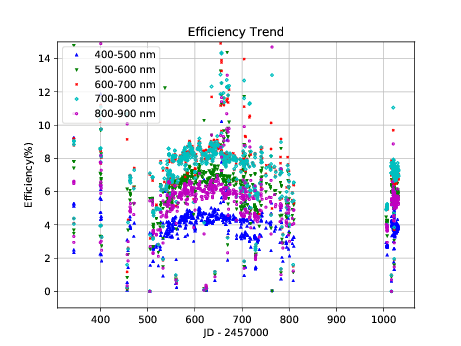
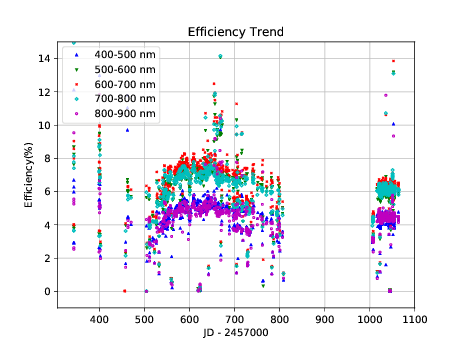
updates to plot/text

diff --git a/source/conf.py b/source/conf.py
@@ -61,9 +61,9 @@ author = u'Nick Konidaris/Don Neill'
 # built documents.
 #
 # The short X.Y version.
-version = '03 November 2017'
+version = '09 November 2017'
 # The full version, including alpha/beta/rc tags.
-release = '03 November 2017'
+release = '09 November 2017'
 
 # The language for content autogenerated by Sphinx. Refer to documentation
 # for a list of supported languages.

diff --git a/source/Efficiency.rst b/source/Efficiency.rst
@@ -323,9 +323,8 @@ efficiency measurement due to atmospheric extinction (clouds), but can also
 increase the efficiency if there is a high background (moon).  The best way
 to mitigate these effects is to look at the trend over time.  Below is a
 figure that shows the efficiency in wavlength bins over the course of the
-last 700 days.  This was calculated using the functional form for the
-wavelengths and will need to be re-calculated with the average fiducial
-wavelength scale.
+last 700 days.  This was calculated after re-processing all the archival
+data with the average fiducial wavelength scale.
 
 .. _fig-eff_trend:
 
@@ -336,8 +335,8 @@ wavelength scale.
 
 Several features of this plot stand out.  There are short periods of higher
 efficiency that go against the general trend.  These are most likely from
-observations of standard stars that have a high background perhaps due to
-moonlight.  This would be a good thing to track down.
+observations of standard stars that have a high background due to
+moonlight.
 
 The other feature is the increase in efficiency to a peak near JD 2457640
 and then a general decline.  It's hard to understand the rise in this
